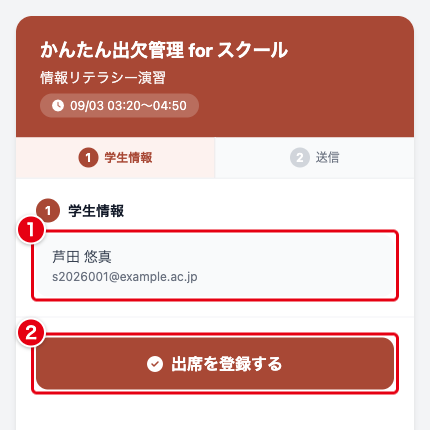
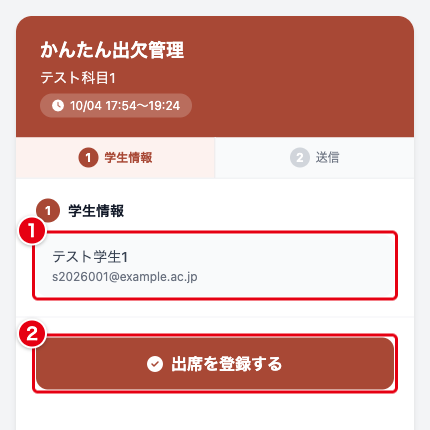
docs(attendance): 実在しそうな人名と大学名が写っていた図を、テスト用の名前で撮り直す
公開するマニュアルなので、for スクールの図から実在しそうな人名と大学名を外す。
⚠ SEC の本番リリース後に release/public へ公開すること。

- 図: 撮り直し 9 枚 (v2/03, 05, 10, 10b, 12, 13, 14, 17c, 18)。学生は「テスト学生N」、
  教員は「テスト教員1」、授業は「テスト科目1」。どの図も切り出しと番号の数・位置は表に合わせた
  (10・10b は、授業に登録したグループを受講者名簿の図と同じ「情報学部 2年生」
  「テスト科目1 再履修」にそろえたので撮り直した)
- 共同教員の画面の説明が「招待できるのは、この組織のユーザーとして登録されている先生だけ」に
  変わっていたので、11. にその制約を書き足す
- 撮影のデータはローカル環境 (issues-1003) の dev DB の架空の組織「テスト大学」に作った。
  過去の回の出席記録はモデル経由で作り、学生の出席フォームは一時的にコマの時刻を今へずらして撮り、元に戻した

Claude-Session: https://claude.ai/code/session_0141m1VoZ3eYLk5tnmGAXCNp

diff --git a/docs/attendance/attendance-school-v2.md b/docs/attendance/attendance-school-v2.md
@@ -698,6 +698,10 @@ for スクールでは、この設定は組織で共通です。
 招待された教員がメールのリンクから承認すると、共有が有効になります。
 招待の有効期限は7日間です。
 
+共同教員にできるのは、組織のユーザーとして登録されている教員だけです。
+登録されていない相手は、組織のメンバーの一覧に表示されず、メールアドレスで招待することもできません。
+先に組織の管理者に、組織のユーザーとして登録してもらってください。
+
 共同教員は授業の出席表とコマを扱えますが、**履修者一覧の画面には入れません。**
 名簿の登録と修正は、授業の作成者または出欠管理の権限を持つ組織管理者が行ってください。
 授業とコマの削除も、授業を作成した教員だけが行えます。
